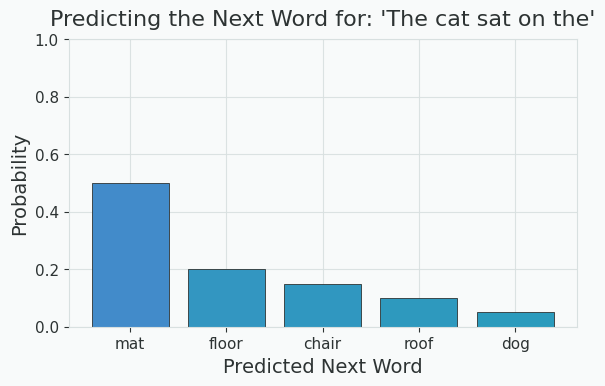
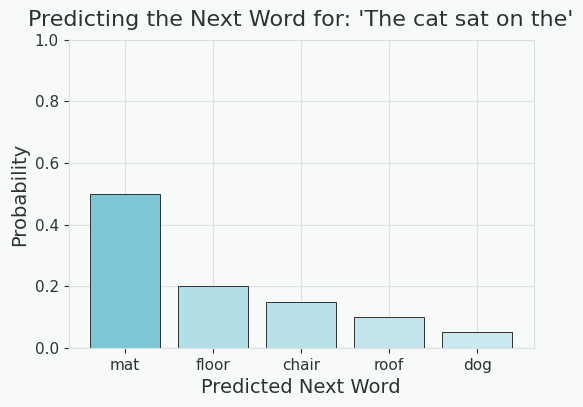
llm predict next example updated again

diff --git a/CCPlots/implementation/LLMPredictExample.py b/CCPlots/implementation/LLMPredictExample.py
@@ -1,60 +1,65 @@
-import matplotlib.colors as mcolors
 import matplotlib.pyplot as plt
 
 from CCPlots.PlotExample import PlotExample
-from CCPlots.config import BITROOT_PALETTE, apply_bitroot_style, output_path
+from CCPlots.config import BITROOT_PALETTE, apply_bitroot_style, output_path, probability_color
+
+
+TEXT_BY_LOCALE = {
+    "en": {
+        "title": "Predicting the Next Word for: '{prompt}'",
+        "ylabel": "Probability",
+        "xlabel": "Predicted Next Word",
+        "prompt": "The cat sat on the",
+        "words": ["mat", "floor", "chair", "roof", "dog"],
+    },
+    "nl": {
+        "title": "Volgende woord voorspellen voor: '{prompt}'",
+        "ylabel": "Kans",
+        "xlabel": "Voorspeld volgend woord",
+        "prompt": "De kat zat op de",
+        "words": ["mat", "vloer", "stoel", "dak", "hond"],
+    },
+}
 
 
 class LLMPredictExample(PlotExample):
 
-    output_file = "llm_predict_next.png"
-
-    @staticmethod
-    def _probability_color(probability: float) -> str:
-        """Return a primary-based shade where higher probability is darker."""
-        base = mcolors.to_rgb(BITROOT_PALETTE["primary"])
-        dark = mcolors.to_rgb(BITROOT_PALETTE["secondary"])
-        blend = 0.05 + 0.95 * probability
-        blended = tuple((1 - blend) * base[i] + blend * dark[i] for i in range(3))
-        return mcolors.to_hex(blended)
-
     def main(self):
-        # Re-import necessary libraries after execution state reset
-        import matplotlib.pyplot as plt
-
-        # Example sentence leading to next-word prediction
-        prompt = "The cat sat on the"
-
-        # Simulated probability distribution for the next word
         next_word_probs = {
             "mat": 0.5,
             "floor": 0.2,
             "chair": 0.15,
             "roof": 0.1,
-            "dog": 0.05
+            "dog": 0.05,
         }
 
-        # Extract words and their probabilities
         words = list(next_word_probs.keys())
         probabilities = list(next_word_probs.values())
-        bar_colors = [self._probability_color(probability) for probability in probabilities]
 
-        # Create bar chart
-        plt.figure(figsize=(6, 4), facecolor=BITROOT_PALETTE["background"])
-        ax = plt.gca()
-        ax.set_facecolor(BITROOT_PALETTE["background"])
-        ax.bar(words, probabilities, color=bar_colors, edgecolor=BITROOT_PALETTE["text"], linewidth=0.6)
+        for locale, labels in (("en", TEXT_BY_LOCALE["en"]), ("nl", TEXT_BY_LOCALE["nl"])):
+            fname = f"llm_predict_next{'_NL' if locale == 'nl' else ''}.png"
+            bar_colors = [probability_color(p, "primary_pale", "primary")
+                          for p in probabilities]
+            prompt = labels["prompt"]
 
-        # Formatting the chart
-        plt.ylim(0, 1)
-        plt.ylabel("Probability", color=BITROOT_PALETTE["text"])
-        plt.xlabel("Predicted Next Word", color=BITROOT_PALETTE["text"])
-        plt.title(f"Predicting the Next Word for: '{prompt}'", color=BITROOT_PALETTE["text"], pad=10)
-        apply_bitroot_style(ax)
-        plt.tight_layout(pad=1.2)
+            fig, ax = plt.subplots(figsize=(6, 4),
+                                   facecolor=BITROOT_PALETTE["background"])
+            ax.set_facecolor(BITROOT_PALETTE["background"])
+            ax.bar(range(len(words)), probabilities, color=bar_colors,
+                   edgecolor=BITROOT_PALETTE["text"], linewidth=0.7,
+                   tick_label=labels["words"])
 
-        # Display the chart
-        plt.savefig(output_path(self.output_file), bbox_inches="tight", pad_inches=0.1)
+            ax.set_ylim(0, 1)
+            ax.set_ylabel(labels["ylabel"], color=BITROOT_PALETTE["text"])
+            ax.set_xlabel(labels["xlabel"], color=BITROOT_PALETTE["text"])
+            title = labels["title"].format(prompt=prompt)
+            ax.set_title(title, color=BITROOT_PALETTE["text"], pad=10)
+            apply_bitroot_style(ax)
+
+            fig.savefig(output_path(fname), bbox_inches="tight",
+                        pad_inches=0.1)
+            plt.close(fig)
+
 
 if __name__ == "__main__":
     LLMPredictExample().main()

diff --git a/CCPlots/config.py b/CCPlots/config.py
@@ -39,6 +39,17 @@ def darken_color(color: str, factor: float = 0.6) -> str:
     return mcolors.to_hex((r * factor, g * factor, b * factor))
 
 
+def probability_color(probability: float, light_color: str = "primary_soft", dark_color: str = "primary") -> str:
+    """Return a primary-based shade where higher probability is darker.
+
+    Blends between two palette colors based on probability (0 → light, 1 → dark).
+    """
+    light = mcolors.to_rgb(BITROOT_PALETTE[light_color])
+    dark = mcolors.to_rgb(BITROOT_PALETTE[dark_color])
+    blended = tuple(light[i] + probability * (dark[i] - light[i]) for i in range(3))
+    return mcolors.to_hex(blended)
+
+
 def _tint_color(color: str, amount: float) -> str:
     """Return a lighter tint of a color based on the Bitroot palette."""
     r, g, b = mcolors.to_rgb(color)
@@ -46,8 +57,10 @@ def _tint_color(color: str, amount: float) -> str:
 
 
 BITROOT_PALETTE.update({
+    "primary_dark": darken_color(BITROOT_PALETTE["primary"], 0.5),
     "primary_light": _tint_color(BITROOT_PALETTE["primary"], 0.35),
     "primary_soft": _tint_color(BITROOT_PALETTE["primary"], 0.18),
+    "primary_pale": _tint_color(BITROOT_PALETTE["primary"], 0.80),
     "secondary_light": _tint_color(BITROOT_PALETTE["secondary"], 0.25),
     "secondary_soft": _tint_color(BITROOT_PALETTE["secondary"], 0.12),
     "tertiary_light": _tint_color(BITROOT_PALETTE["tertiary"], 0.25),
